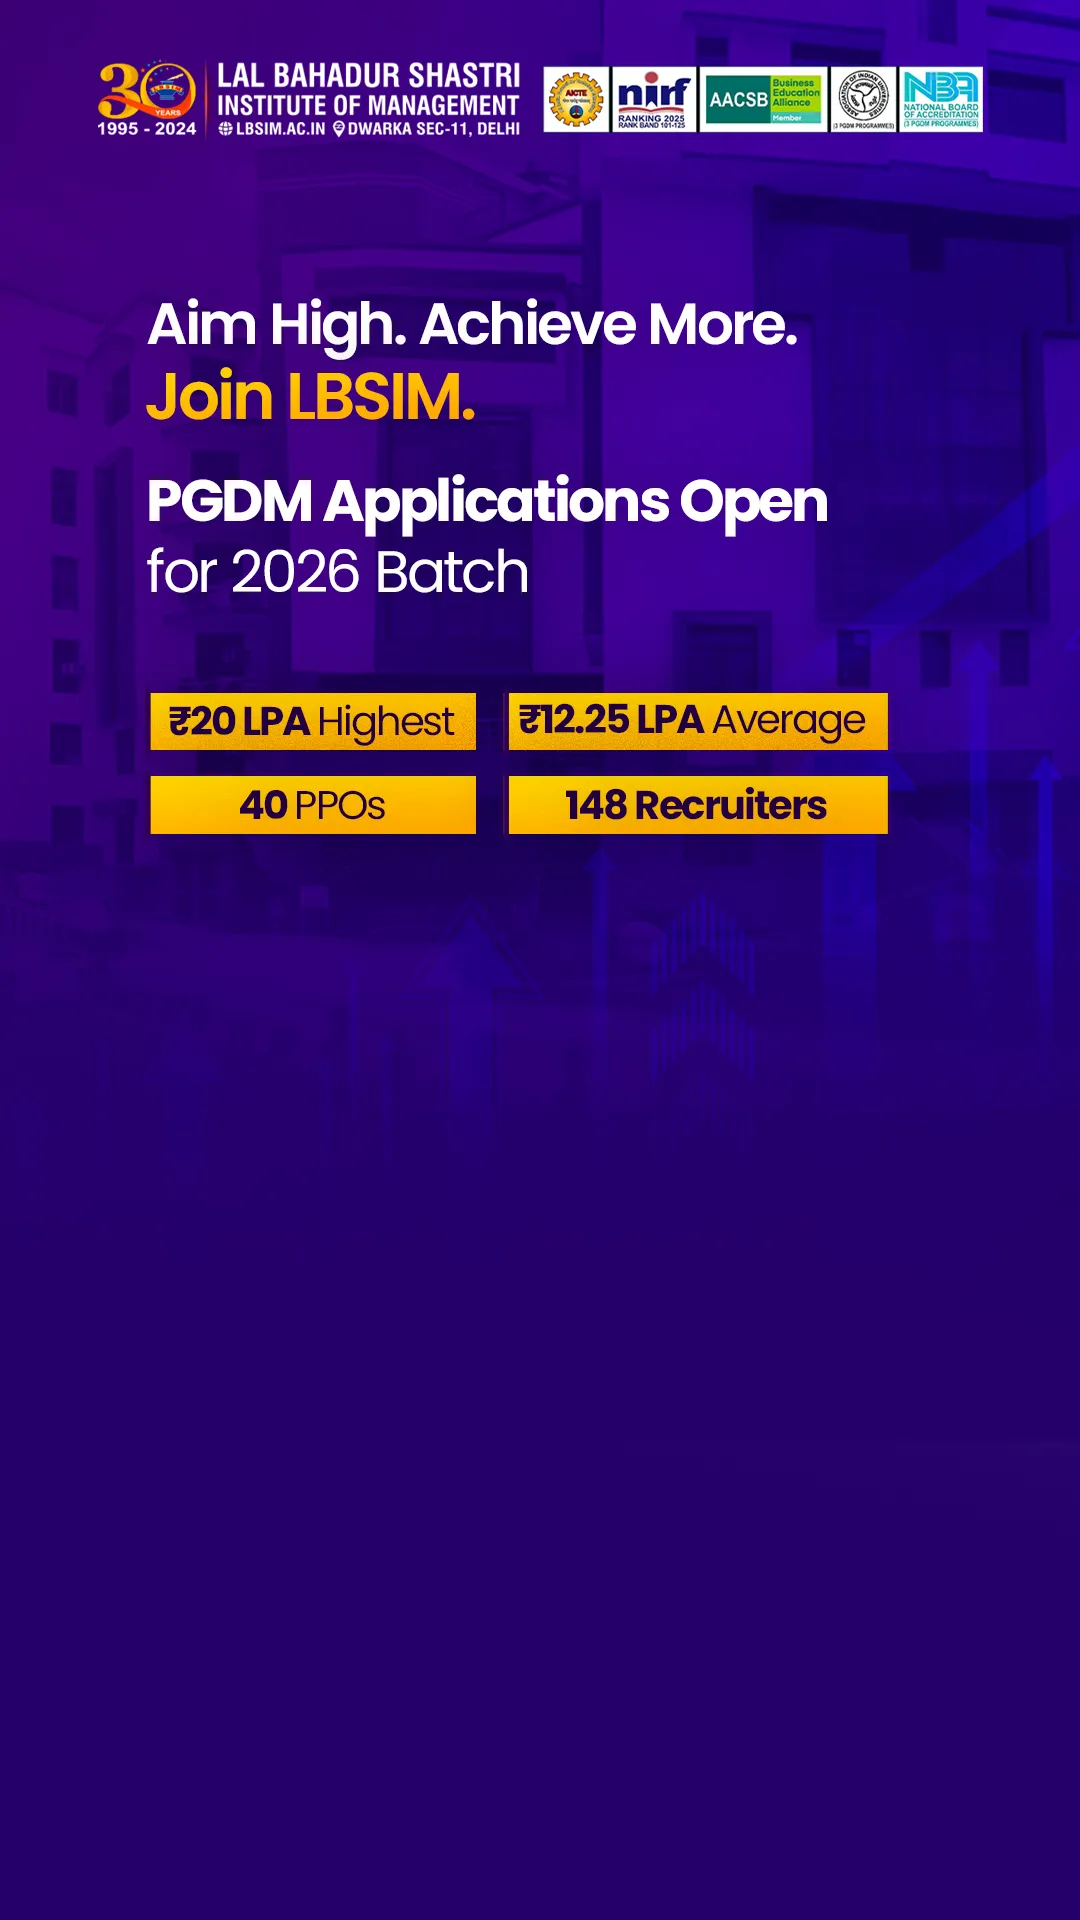
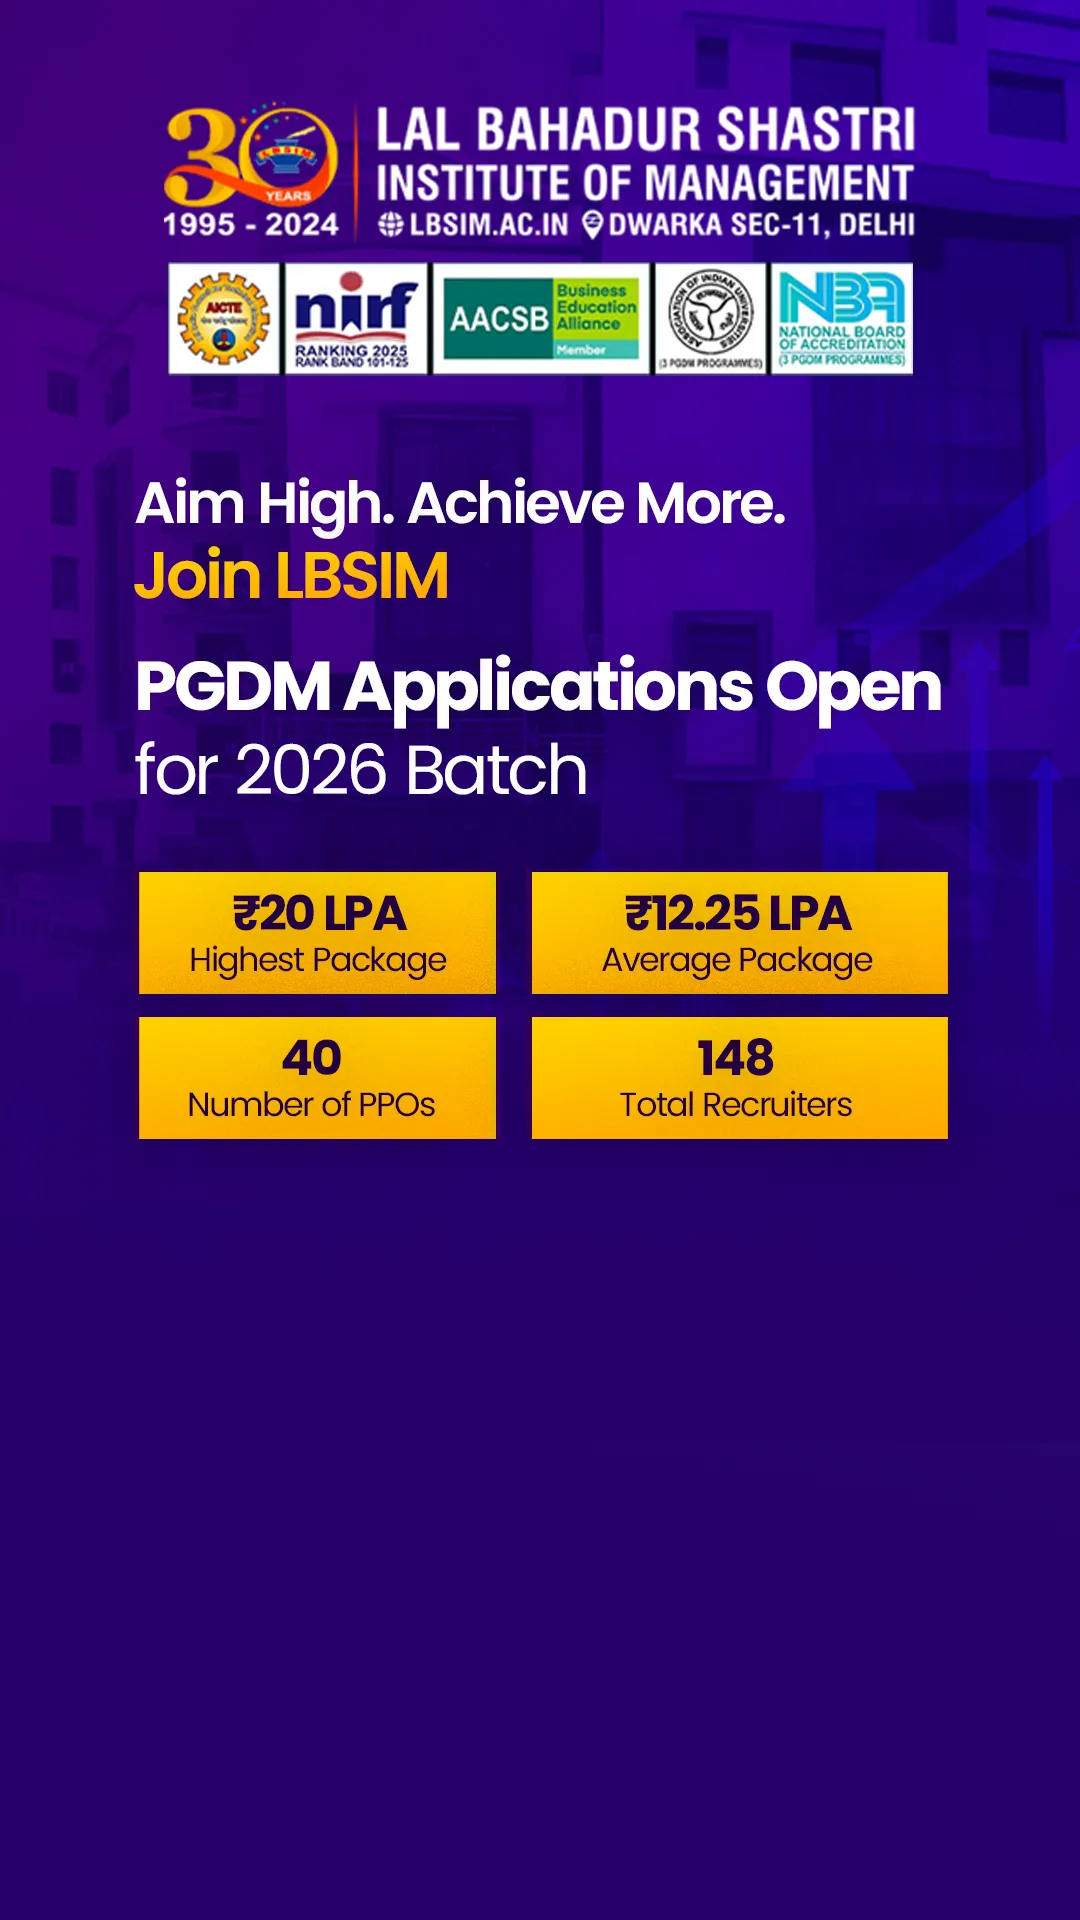
Refactor Hero Section in index.html and introduce 'Who We Are' section with updated content and layout for enhanced user engagement and visual appeal. Add new images for improved presentation.

Changed region(s): [[0.1222, 0.3438, 0.8861, 0.5938], [0.0917, 0.0312, 0.9167, 0.2188], [0.1222, 0.25, 0.7639, 0.3125]]

diff --git a/index.html b/index.html
@@ -144,13 +144,66 @@
   </head>
   <body>
     <!-- Hero Banner Section -->
-<section class="hero-section">
-  <picture>
-    <source media="(min-width: 768px)" srcset="images/lbsim-banner.webp">
-    <source media="(max-width: 767px)" srcset="images/lbsim-banner-sm1.webp">
-    <img src="images/lbsim-banner.webp" alt="LBSIM Banner" class="banner-img">
-  </picture>
-</section>
+    <section class="hero-section">
+      <picture>
+        <source media="(min-width: 768px)" srcset="images/lbsim-banner.webp" />
+        <source
+          media="(max-width: 767px)"
+          srcset="images/lbsim-banner-sm1.webp"
+        />
+        <img
+          src="images/lbsim-banner.webp"
+          alt="LBSIM Banner"
+          class="banner-img"
+        />
+      </picture>
+    </section>
+
+    <!-- WHO WE ARE Section -->
+    <section class="who-we-are">
+      <div class="who-we-are-container">
+        <div class="content-wrapper">
+          <!-- Left Column: Text Content -->
+          <div class="text-content">
+            <!-- <div class="subtitle">WHO WE ARE</div> -->
+            <h2 class="main-title">
+              Lal Bahadur Shastri Institute of Management (LBSIM)
+            </h2>
+            <p class="description">
+              Delhi is among India’s <b>premium private business schools</b>.
+              <b>LBSIM</b> was established in <b>1995</b> to perpetuate the
+              vision and values of
+              <b>Bharat Ratna Shri Lal Bahadur Shastri Ji</b> – India’s
+              <b>2nd Prime Minister</b>, by his son -
+              <b>Shri Anil Shastri ji</b>, former Union Minister and Chairman,
+              Board of Governors. LBSIM is powered by <b>55+ PhD Faculty</b>,
+              <b>6000+ Alumni</b> and <b>100+ Corporates</b>.
+            </p>
+            <button class="cta-button">DISCOVER MORE</button>
+          </div>
+
+          <!-- Right Column: Image with Overlay Card -->
+          <div class="image-content">
+            <div class="image-wrapper">
+              <img
+                src="/images/LBSIM Campus.webp"
+                alt="University Campus"
+                class="campus-image"
+              />
+              <div class="green-border"></div>
+              <div class="overlay-card">
+                <div class="card-icon">📖</div>
+                <h3 class="card-title">30+ Years of Legacy</h3>
+                <!-- <p class="card-description">
+                  Netus amet congue justo luctus auctor erat dapibus nam sodales
+                  ridiculus duis.
+                </p> -->
+              </div>
+            </div>
+          </div>
+        </div>
+      </div>
+    </section>
 
     <!-- Accreditations & Memberships Section -->
     <section class="accreditations-section container">
@@ -281,57 +334,13 @@
       </div>
     </section>
 
-    <!-- WHO WE ARE Section -->
-    <section class="who-we-are">
-      <div class="who-we-are-container">
-        <div class="content-wrapper">
-          <!-- Left Column: Text Content -->
-          <div class="text-content">
-            <!-- <div class="subtitle">WHO WE ARE</div> -->
-            <h2 class="main-title">
-              Lal Bahadur Shastri Institute of Management (LBSIM)
-            </h2>
-            <p class="description">
-              Delhi is among India’s <b>premium private business schools</b>.
-              <b>LBSIM</b> was established in <b>1995</b> to perpetuate the
-              vision and values of
-              <b>Bharat Ratna Shri Lal Bahadur Shastri Ji</b> – India’s
-              <b>2nd Prime Minister</b>, by his son -
-              <b>Shri Anil Shastri ji</b>, former Union Minister and Chairman,
-              Board of Governors. LBSIM is powered by <b>55+ PhD Faculty</b>,
-              <b>6000+ Alumni</b> and <b>100+ Corporates</b>.
-            </p>
-            <button class="cta-button">DISCOVER MORE</button>
-          </div>
-
-          <!-- Right Column: Image with Overlay Card -->
-          <div class="image-content">
-            <div class="image-wrapper">
-              <img
-                src="/images/LBSIM Campus.webp"
-                alt="University Campus"
-                class="campus-image"
-              />
-              <div class="green-border"></div>
-              <div class="overlay-card">
-                <div class="card-icon">📖</div>
-                <h3 class="card-title">30+ Years of Legacy</h3>
-                <!-- <p class="card-description">
-                  Netus amet congue justo luctus auctor erat dapibus nam sodales
-                  ridiculus duis.
-                </p> -->
-              </div>
-            </div>
-          </div>
-        </div>
-      </div>
-    </section>
-
     <!-- Courses Section -->
     <section class="courses-section">
       <div class="courses-container container">
-        <h2 style="color: #000">Two year full time PGDM Program <br> at LBSIM
-          Specialisation</h2>
+        <h2 style="color: #000">
+          Two year full time PGDM Program <br />
+          at LBSIM Specialisation
+        </h2>
         <div class="courses-grid">
           <!-- Course 1: PGDM General -->
           <div class="course-card">
@@ -425,7 +434,17 @@
         </div>
       </div>
 
-      <h3 style="text-align: center; font-size: 24px; font-weight: bold; color: #000; margin-bottom: 20px;">Prominent Recruiters</h3>
+      <h3
+        style="
+          text-align: center;
+          font-size: 24px;
+          font-weight: bold;
+          color: #000;
+          margin-bottom: 20px;
+        "
+      >
+        Prominent Recruiters
+      </h3>
 
       <div class="university-partners-container">
         <div class="university-grid">
